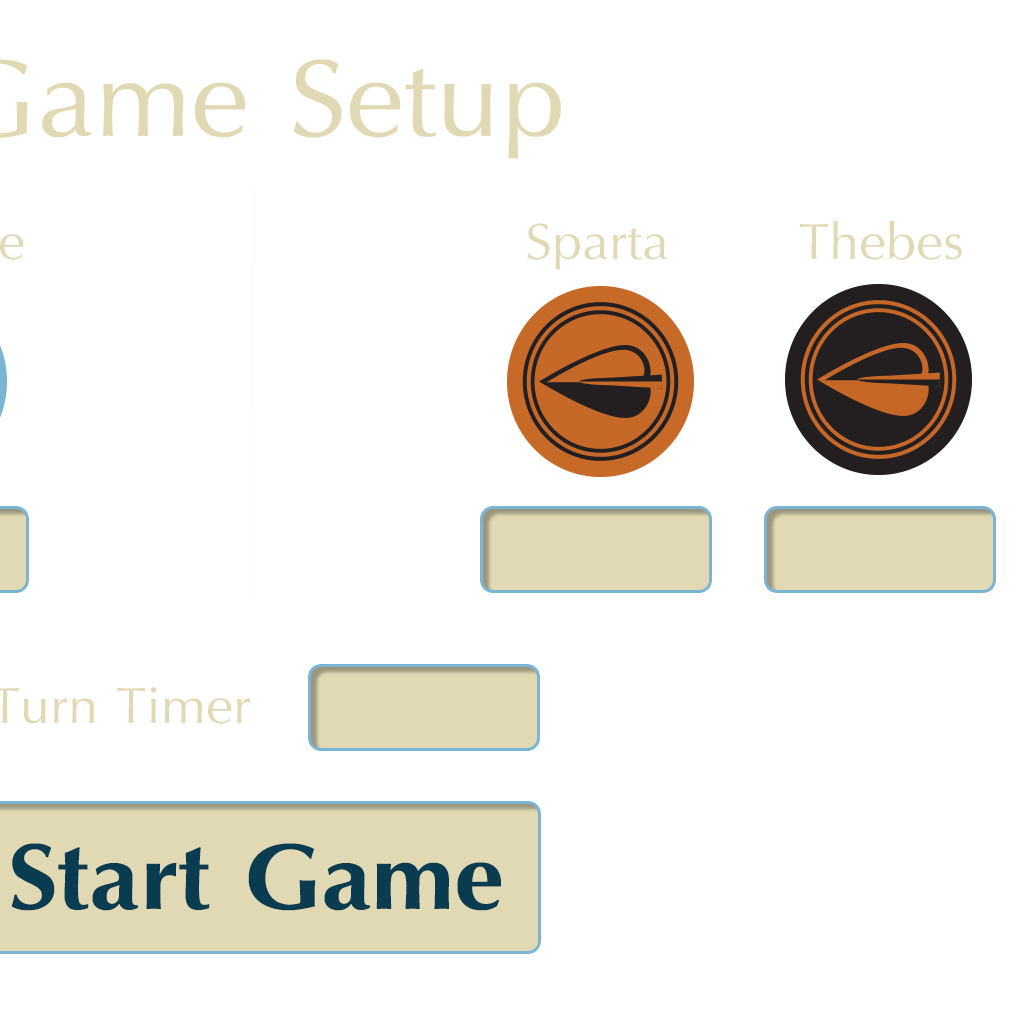
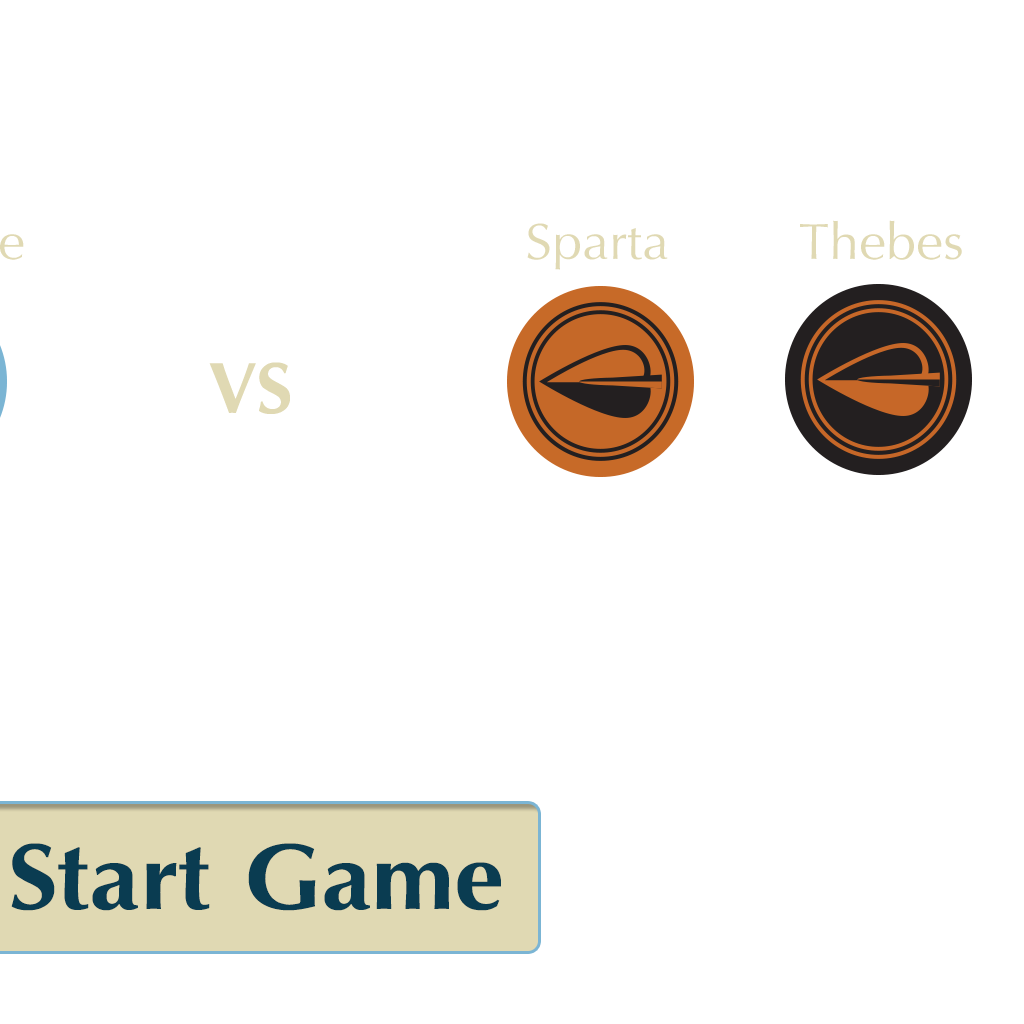
minimal setup screen

diff --git a/js/input.js b/js/input.js
@@ -408,25 +408,8 @@ function mouseUp(event) {
 					}
 				}
 				else if (gameMan.screen == "setup") {
-					if (y > 220 && y < 610) {
-						if (x > 20 & x < 240) {
-							menuSetup(0);
-						}
-						else if (x > 320 & x < 540) {
-							menuSetup(2);
-						}
-						else if (x > 1000 & x < 1220) {
-							menuSetup(1);
-						}
-						else if (x > 1280 & x < 1500) {
-							menuSetup(3);
-						}
-					}
-					else if (x > 810 && x < 1050 && y > 650 && y < 775) {
-						menuSetup(4);
-					}
-					else if (x > 480 && x < 1050 && y > 785 && y < 900) {
-						menuSetup(5);
+					if (x > 480 && x < 1050 && y > 790 && y < 960) {
+						menuSetup();
 					}
 				}
 			}

diff --git a/js/main.js b/js/main.js
@@ -645,11 +645,6 @@ function drawContext(context, tv) {
 	case "setup":
 		context.drawImage(images["menuSetup0"], x, y);
 		context.drawImage(images["menuSetup1"], x+512, y);
-		context.drawImage(images["menuSetupAI" + gameMan.ais[0]], x+50, y+520);
-		context.drawImage(images["menuSetupAI" + gameMan.ais[2]], x+340, y+520);
-		context.drawImage(images["menuSetupAI" + gameMan.ais[1]], x+1020, y+520);
-		context.drawImage(images["menuSetupAI" + gameMan.ais[3]], x+1310, y+520);
-		context.drawImage(images["menuSetupTimer" + gameMan.timerIndex], x+840, y+685);
 		break;
 	case "tutorial":
 		context.drawImage(images["menuTutorial0"], x, y);

diff --git a/js/game.js b/js/game.js
@@ -415,25 +415,10 @@ function menuTitle(index) {
 	animMan["activeFade"] = -1;
 }
 
-function menuSetup(index) {
-	if (index >= 0 && index < 4) {
-		gameMan.ais[index]++;
-		if (gameMan.ais[index] > 2) {
-			gameMan.ais[index] = 0;
-		}
-	}
-	else if (index == 4) {
-		gameMan.timerIndex++;
-		if (gameMan.timerIndex > 3) {
-			gameMan.timerIndex = 0;
-		}
-		setupTimer();
-	}
-	else if (index == 5) {
-		newGame();
-		fadeScreen("board");
-		fadeMusic("music");
-	}
+function menuSetup() {
+	newGame();
+	fadeScreen("board");
+	fadeMusic("music");
 }
 
 function menuRules(index) {
